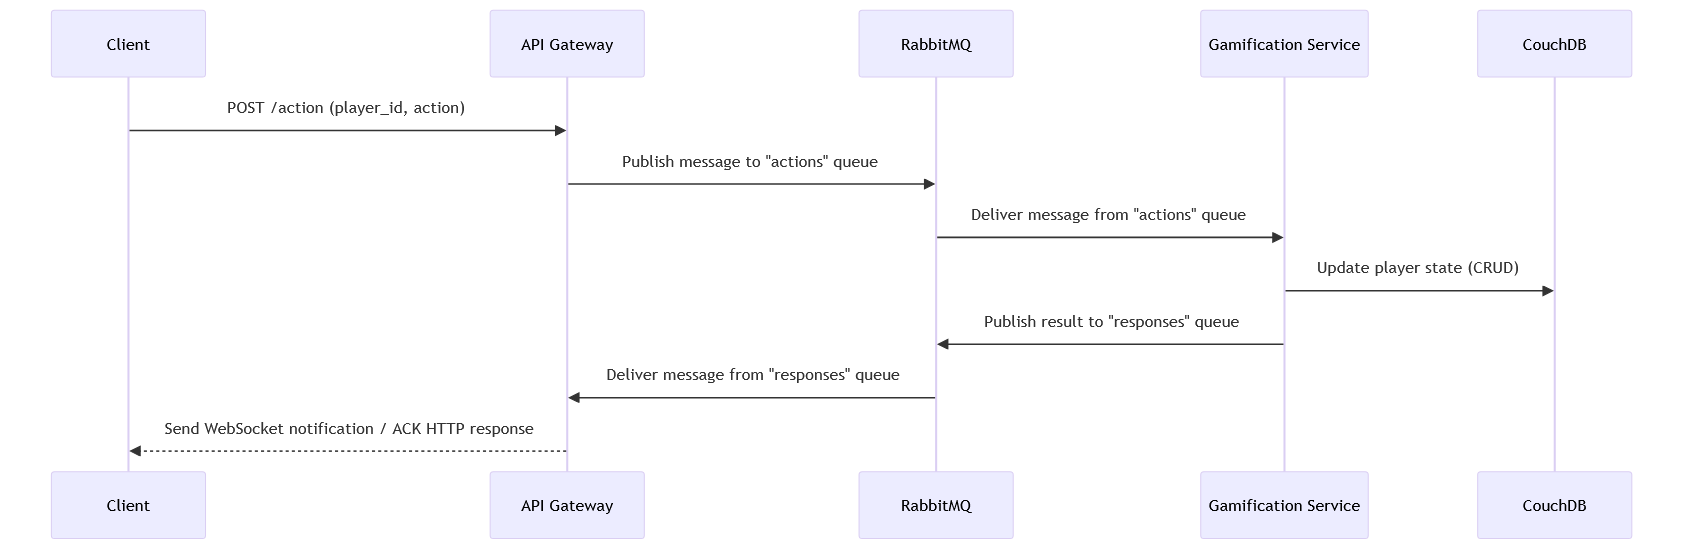
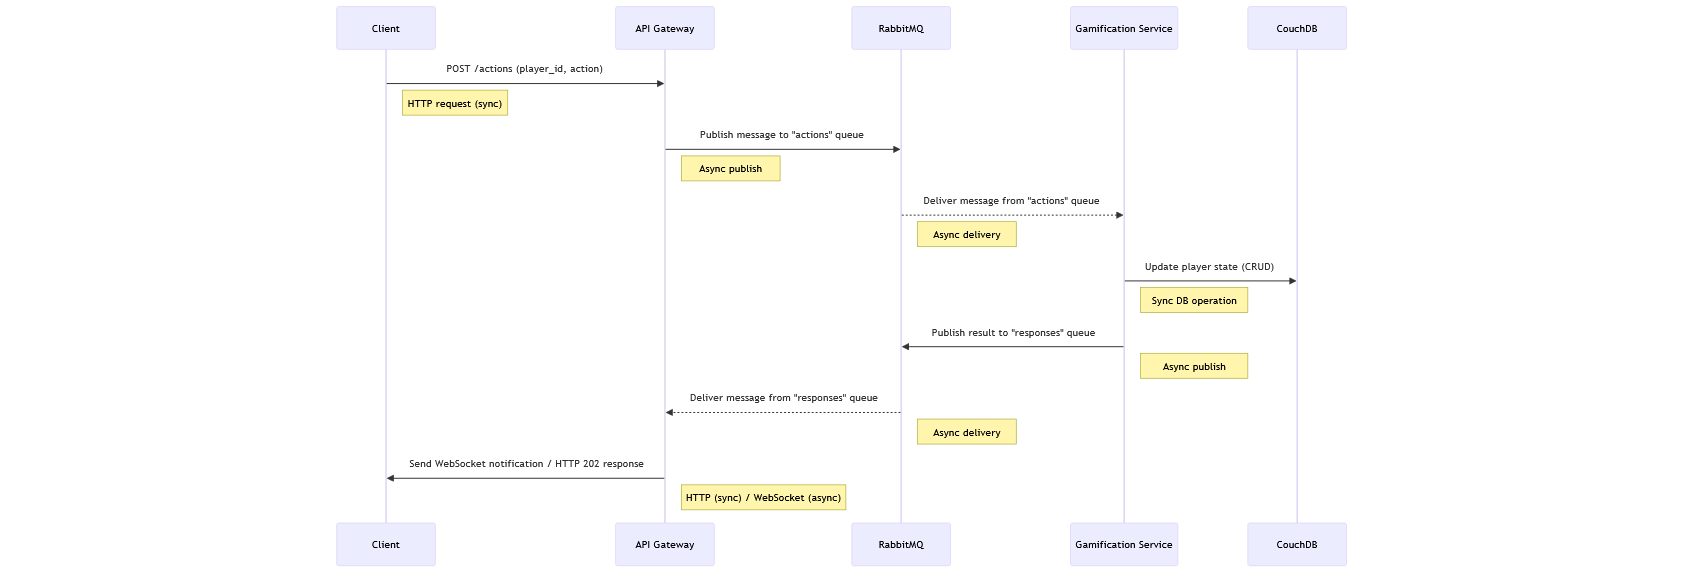
feat: Adds marmaid diagram as code to be interpreted by Githuba ccording to: https://docs.github.com/en/get-started/writing-on-github/working-with-advanced-formatting/creating-diagrams

diff --git a/README.md b/README.md
@@ -9,7 +9,36 @@ Frajda is designed as an asynchronous gamification engine. The core flow is:
 4. **Notification**: The service publishes the result to a response queue in RabbitMQ.
 5. **Real-time Update**: `api_gateway` consumes messages from the response queue and emits notifications to connected clients via Socket.IO.
 
- ![ alt text](/assets/mermaid-drawing.png)
+### Sequence Diagram
+```marmaid
+sequenceDiagram
+    participant Client as Client
+    participant API as API Gateway
+    participant MQ as RabbitMQ
+    participant GS as Gamification Service
+    participant DB as CouchDB
+
+    Client->>API: POST /action (player_id, action) 
+    Note right of Client: HTTP request (sync)
+
+    API->>MQ: Publish message to "actions" queue
+    Note right of API: Async publish
+
+    MQ-->>GS: Deliver message from "actions" queue
+    Note right of MQ: Async delivery
+
+    GS->>DB: Update player state (CRUD)
+    Note right of GS: Sync DB operation
+
+    GS->>MQ: Publish result to "responses" queue
+    Note right of GS: Async publish
+
+    MQ-->>API: Deliver message from "responses" queue
+    Note right of MQ: Async delivery
+
+    API->>Client: Send WebSocket notification / HTTP 202 response
+    Note right of API: HTTP (sync) / WebSocket (async)
+```
 
 ## Running with Docker
 1. Ensure Docker and Docker Compose are installed.
